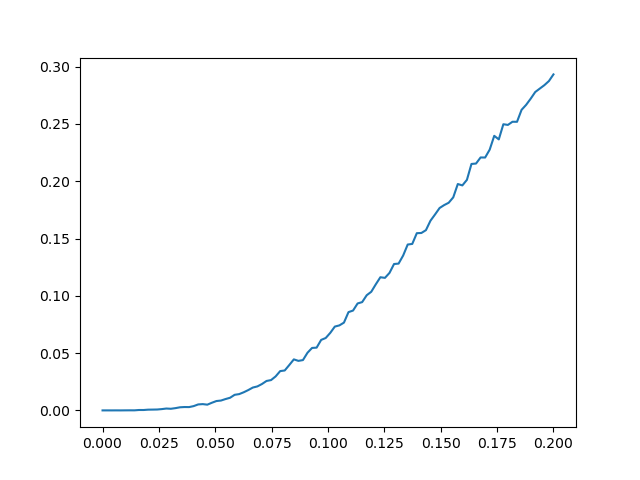
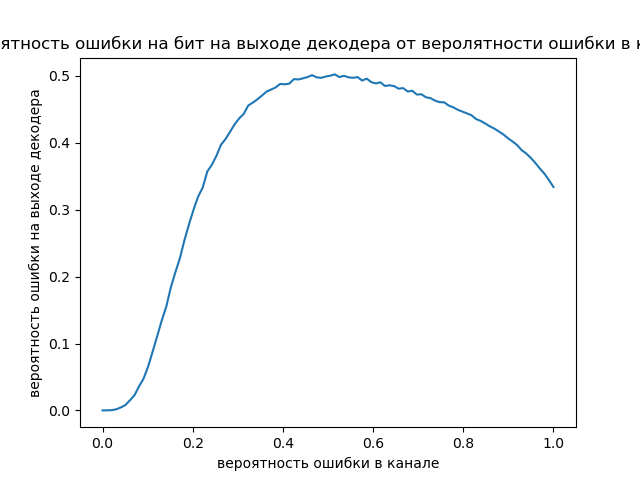
commit

diff --git a/graph.py b/graph.py
@@ -8,7 +8,7 @@ os.system("make clean")
 os.system("make")
 
 
-X = np.linspace(0, 0.2, 100)
+X = np.linspace(0, 1, 100)
 y = []
 
 for x in X:
@@ -19,6 +19,9 @@ for x in X:
 os.system("rm -f input.txt")
 os.system("make clean")
 plt.plot(X, y)
+plt.title("Вероятность ошибки на бит на выходе декодера от веролятности ошибки в канале");
+plt.xlabel("вероятность ошибки в канале")
+plt.ylabel("вероятность ошибки на выходе декодера")
 plt.savefig("graph.png")
 plt.show()
 

diff --git a/README.md b/README.md
@@ -43,7 +43,7 @@
 ```bash
 python3 graph.py
 ```
-Скрипт запустит `main.cpp` для значений ошибок из диапазона `X = np.linspace(0, 0.2, 100)` и сохранит график в `graph.png`.
+Скрипт запустит `main.cpp` для значений ошибок из диапазона `X = np.linspace(0, 1, 100)` и сохранит график в `graph.png`.
 
 ---
 
